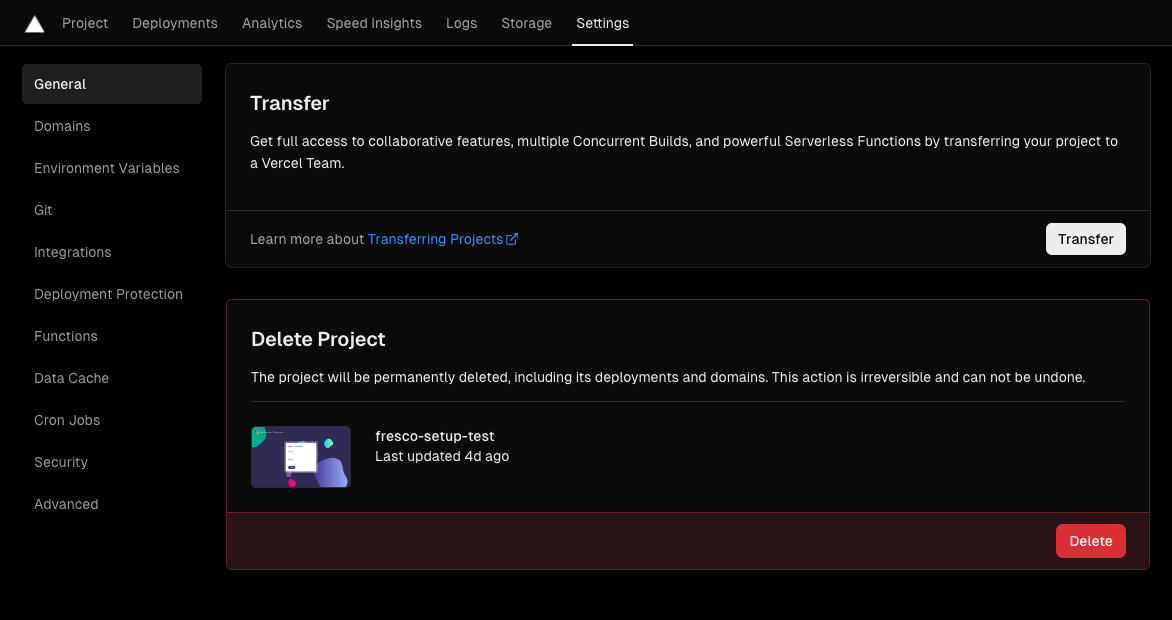
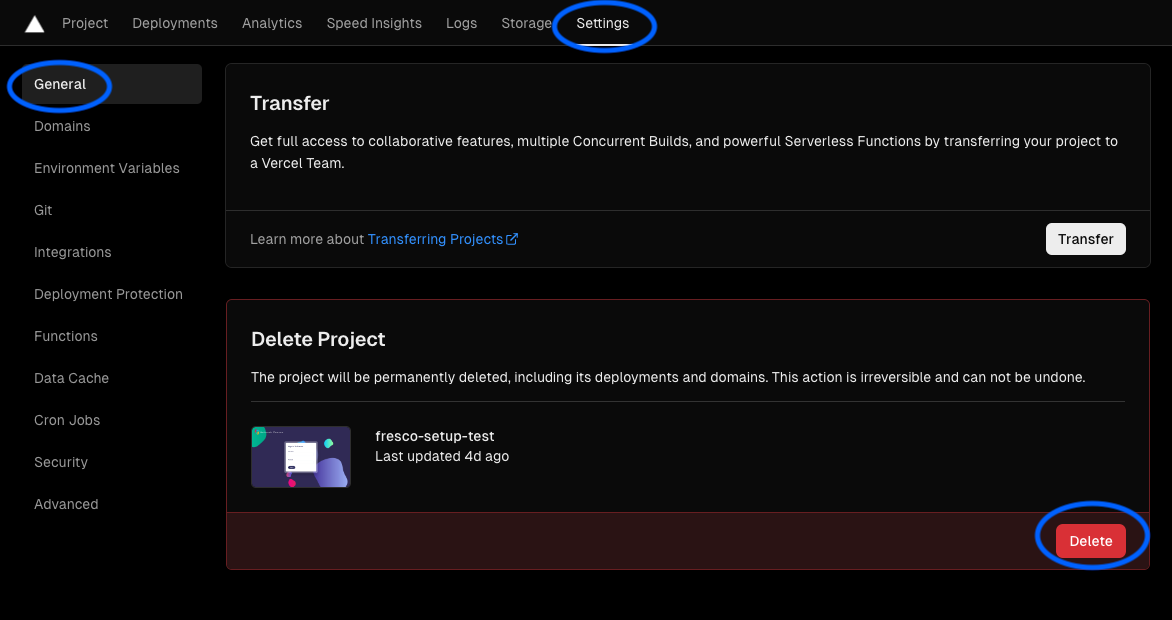
docs: markup screenshots to help users find buttons

diff --git a/README.md b/README.md
@@ -218,7 +218,7 @@ For more info, check out our <a href="https://community.networkcanvas.com/">User
 
 Fresco is Alpha software and will be continuously improved. As we release updated versions of Fresco, you can delete your instance and redeploy it to use the upgraded versions.
 
-## Step
+## Step 1
 
 ### Delete existing instance
 
@@ -232,7 +232,7 @@ Delete your existing instance of Fresco in Vercel by navigating to Settings -> G
 
 2. Delete GitHub Repository
 
-Delete your existing GitHub repository by navigating to the repository, selecting Settings, and scrolling down to Delete this repository. You will be prompted to verify the deletion.
+Delete your existing GitHub repository by navigating to your repository, selecting Settings, and scrolling down to 'Delete this repository'. You will be prompted to verify the deletion.
 
 ![delete-github1](public/images/readme-screenshots/delete-github1.png)
 ![delete-github2](public/images/readme-screenshots/delete-github2.png)
